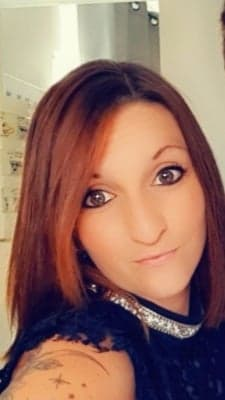
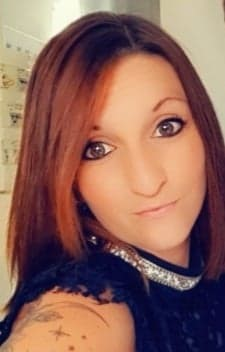
:FEAT: => SASS Logique switch pages ok

diff --git a/src/styles/css/style.css b/src/styles/css/style.css
@@ -1,1 +1,1 @@
-*{margin:0;padding:0;border:0;font-size:1em;font-weight:normal;font-style:normal;text-decoration:none}body,#root{font-family:"Josefin Sans","Lato",sans-serif}body #root .Navbar{display:flex;padding:.65rem;justify-content:flex-end;background-color:#1d223e;border-bottom:4px solid #f24c4c}body #root .Navbar a{display:block;padding:0 1rem;color:#fff}body #root .Navbar a.active{color:#f24c4c}/*# sourceMappingURL=style.css.map */
+*{margin:0;padding:0;border:0;font-size:1em;font-weight:normal;font-style:normal;text-decoration:none}body,#root{font-family:"Josefin Sans","Lato",sans-serif}body #root .Navbar{display:flex;padding:1rem .65rem;justify-content:flex-end;background-color:#1d223e;border-bottom:4px solid #f24c4c}body #root .Navbar a{display:block;padding:0 1rem;color:#fff}body #root .Navbar a.active{color:#f24c4c}/*# sourceMappingURL=style.css.map */

diff --git a/src/pages/Accueil.tsx b/src/pages/Accueil.tsx
@@ -16,7 +16,9 @@ const Accueil = () => {
     return (
         <div className='accueil'>
             <Navbar />
-            Accueil
+            <div className="img-accueil">
+                <img src="https://github.com/Anthonoir576/Projet-01_PRO/blob/master/public/assets/images/photoprofil.jpg?raw=true" alt="profil emy" />
+            </div>
         </div>
     );
 };

diff --git a/src/styles/sass/components/_navbar.scss b/src/styles/sass/components/_navbar.scss
@@ -2,7 +2,7 @@ body {
     & #root {
         & .Navbar {
             display          : flex;
-            padding          : .65rem;
+            padding          : 1rem .65rem;
             justify-content  : flex-end;
             background-color : rgba(29, 34, 62, 1);
             border-bottom    : 4px solid rgb(242, 76, 76);
